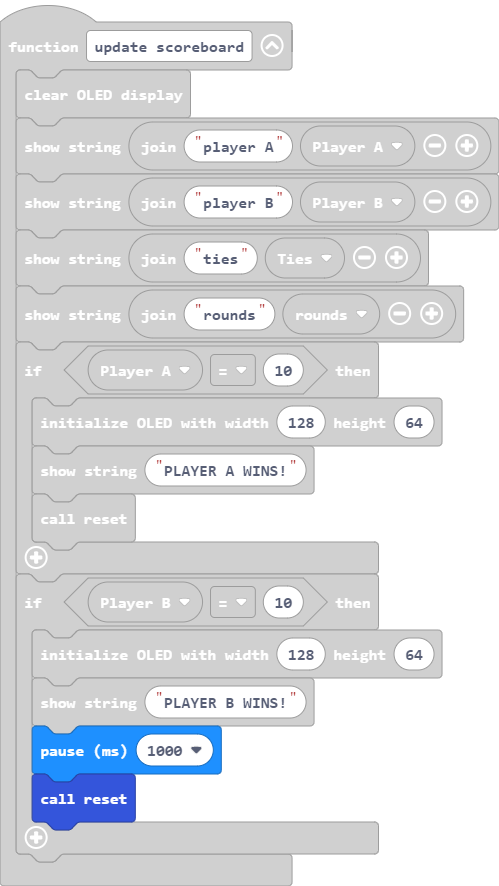
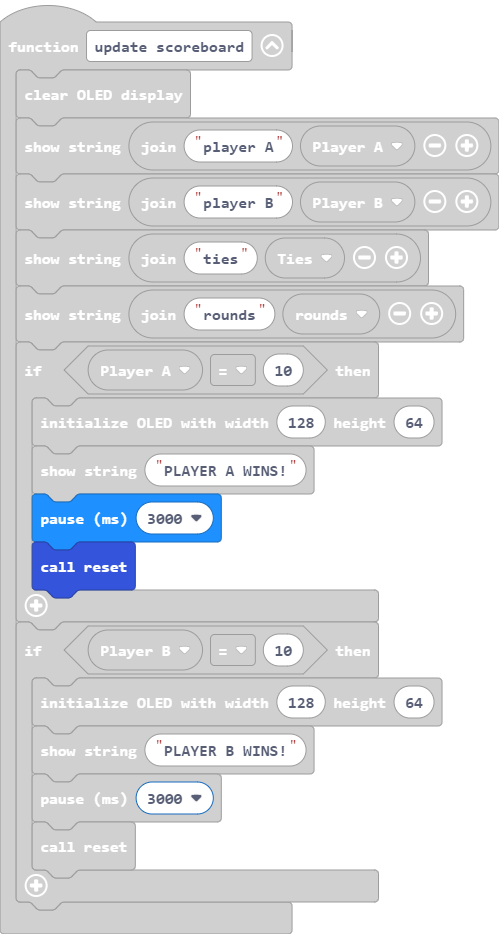
Update main.blocks, main.ts

Changed region(s): [[0.0301, 0.0305, 1.0, 0.9752]]

diff --git a/main.ts b/main.ts
@@ -12,12 +12,13 @@ function update_scoreboard () {
     if (Player_A == 10) {
         OLED.init(128, 64)
         OLED.writeStringNewLine("PLAYER A WINS!")
+        basic.pause(3000)
         reset()
     }
     if (Player_B == 10) {
         OLED.init(128, 64)
         OLED.writeStringNewLine("PLAYER B WINS!")
-        basic.pause(1000)
+        basic.pause(3000)
         reset()
     }
 }
